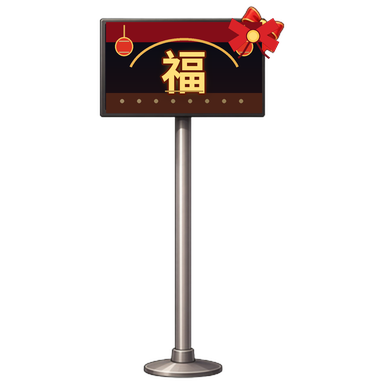
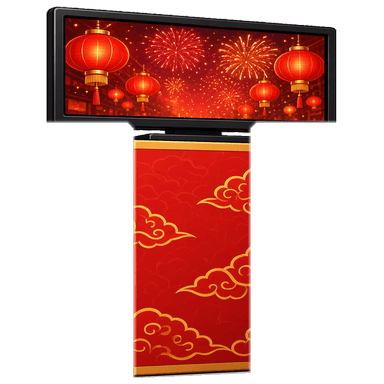
fix: hide fallback card emblem once item art shows; redraw TV on its gift box
- StagePage cleared the sprite but left the code-drawn feature Graphics painted over
  the real art (visible as icons on the enlarged stage-1 tray); clear it, with a test
- tv.png: wide screen fills the top row, festive box fills the stem (no thin pole)

diff --git a/tests/stage-art.test.ts b/tests/stage-art.test.ts
@@ -62,7 +62,11 @@ test('loaded item art replaces the card and rotates the whole picture',async () 
   const root=page.node.getChildByName(`Piece${piece.id}`)!;
   const image=root.getChildByName(`Sprite${piece.id}`)!;
   const title=root.getChildByName(`Item${piece.id}`)!;
+  const feature=root.getChildByName(`Feature${piece.id}`)!.getComponent(Graphics) as unknown as {clear: ReturnType<typeof vi.fn>};
+  feature.clear.mockClear();
   (page as unknown as TestPage).drawPiece(piece,1,40,false);
+  // The card emblem drawn before the art arrived must not stay painted over the picture.
+  expect(feature.clear).toHaveBeenCalled();
   expect(image.getComponent(Sprite)!.enabled).toBe(true);
   expect(image.getComponent(Sprite)!.spriteFrame).toBe(frame);
   expect(title.active).toBe(false);

diff --git a/client/assets/scripts/pages/StagePage.ts b/client/assets/scripts/pages/StagePage.ts
@@ -564,6 +564,8 @@ export class StagePage {
     view.sprite.spriteFrame=frame; view.sprite.enabled=true;
     view.sprite.color=failed ? new Color(255,150,150) : Color.WHITE;
     view.title.node.active=false;
+    // The fallback card's emblem lives on its own Graphics; drop it once the real picture shows.
+    view.feature.clear();
     return true;
   }
 
